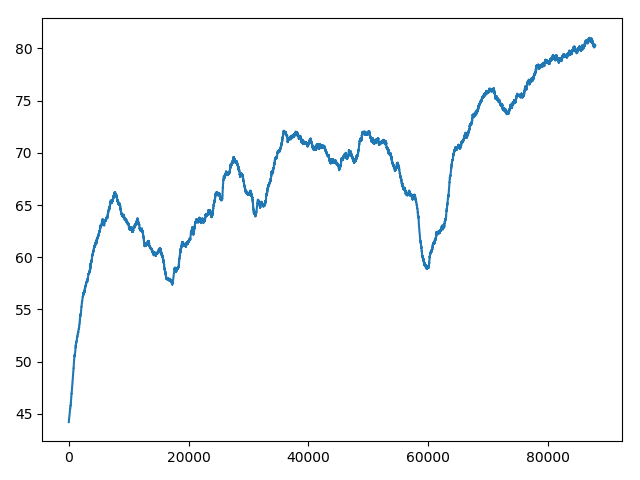
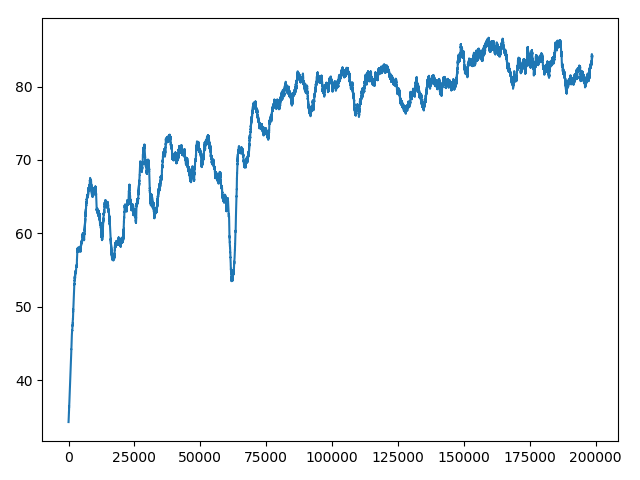
Stalkers and epsilon greedy

diff --git a/sc2ai/env_interface.py b/sc2ai/env_interface.py
@@ -42,14 +42,15 @@ class EnvironmentInterface(ABC):
 
 class RoachesEnvironmentInterface(EnvironmentInterface):
     state_shape = [3, 84, 84]
-    screen_dimensions = [84, 84, 84, 84]
-    num_actions = 3
+    screen_dimensions = [84, 84, 84, 84, 84, 84]
+    num_actions = 4
 
     @classmethod
     def _get_action_mask(cls, timestep):
         mask = np.ones([cls.num_actions])
         if pysc2_actions.FUNCTIONS.Attack_screen.id not in timestep.observation.available_actions:
             mask[0] = 0
+            mask[1] = 0
         return mask
 
     @classmethod
@@ -70,12 +71,6 @@ class RoachesEnvironmentInterface(EnvironmentInterface):
             return None
 
     @classmethod
-    def _save_timestep_image(cls, timestep, name='outimages/test'):
-        imsave(name + '1.png', cls.convert_state(timestep)[0][0])
-        imsave(name + '2.png', cls.convert_state(timestep)[0][1])
-        imsave(name + '3.png', cls.convert_state(timestep)[0][2])
-
-    @classmethod
     def _rotate_action(cls, x, y):
         yield
         timestep = yield pysc2_actions.FUNCTIONS.select_point('select', (x, y))
@@ -87,7 +82,11 @@ class RoachesEnvironmentInterface(EnvironmentInterface):
                     direction = center_allies - center_enemies
                     target = [x, y] + 10 * direction
                     target = np.clip(target, a_min=0, a_max=83)
-                    yield pysc2_actions.FUNCTIONS.Move_screen('now', target)
+                    if pysc2_actions.FUNCTIONS.Effect_Blink_screen.id in timestep.observation.available_actions:
+                        yield pysc2_actions.FUNCTIONS.Effect_Blink_screen('now', target)
+                    else:
+                        yield pysc2_actions.FUNCTIONS.Move_screen('now', target)
+        yield pysc2_actions.FUNCTIONS.select_army('select')
         yield
 
     @classmethod
@@ -95,7 +94,56 @@ class RoachesEnvironmentInterface(EnvironmentInterface):
         action_index, coords = action
         actions = [
             cls._make_generator([pysc2_actions.FUNCTIONS.Attack_screen('now', coords[0:2])]),
-            cls._rotate_action(coords[2], coords[3]),
+            cls._make_generator([pysc2_actions.FUNCTIONS.Move_screen('now', coords[2:4])]),
+            cls._rotate_action(coords[4], coords[5]),
+            cls._make_generator([pysc2_actions.FUNCTIONS.select_army('select')])
+        ]
+        return actions[action_index]
+
+    @classmethod
+    def convert_state(cls, timestep):
+        feature_screen = timestep.observation.feature_screen
+        beacon = (np.array(feature_screen.player_relative) == PlayerRelative.ENEMY).astype(np.float32)
+        player = (np.array(feature_screen.player_relative) == PlayerRelative.SELF).astype(np.float32)
+        health = np.array(feature_screen.unit_hit_points).astype(np.float32)
+        return np.stack([beacon, player, health], axis=0), cls._get_action_mask(timestep)
+
+
+class BanelingsEnvironmentInterface(RoachesEnvironmentInterface):
+    state_shape = [3, 84, 84]
+    screen_dimensions = [84, 84, 84, 84, 84, 84]
+    num_actions = 4
+
+    @classmethod
+    def _get_action_mask(cls, timestep):
+        mask = np.ones([cls.num_actions])
+        if pysc2_actions.FUNCTIONS.Attack_screen.id not in timestep.observation.available_actions:
+            mask[0] = 0
+            mask[1] = 0
+        return mask
+
+    @classmethod
+    def _sacrifice_action(cls, x, y):
+        yield
+        timestep = yield pysc2_actions.FUNCTIONS.select_point('select', (x, y))
+        if len(timestep.observation.multi_select) == 0:
+            if pysc2_actions.FUNCTIONS.Move_screen.id in timestep.observation.available_actions:
+                center_allies = cls._get_center_of_mass(timestep, PlayerRelative.SELF)
+                center_enemies = cls._get_center_of_mass(timestep, PlayerRelative.ENEMY)
+                if center_enemies is not None and center_allies is not None:
+                    direction = center_allies - center_enemies
+                    target = [x, y] - 10 * direction
+                    target = np.clip(target, a_min=0, a_max=83)
+                    yield pysc2_actions.FUNCTIONS.Move_screen('now', target)
+        yield
+
+    @classmethod
+    def convert_action(cls, action):
+        action_index, coords = action
+        actions = [
+            cls._make_generator([pysc2_actions.FUNCTIONS.Attack_screen('now', [coords[0], coords[1]])]),
+            cls._make_generator([pysc2_actions.FUNCTIONS.Move_screen('now', [coords[2], coords[3]])]),
+            cls._sacrifice_action(coords[4], coords[5]),
             cls._make_generator([pysc2_actions.FUNCTIONS.select_army('select')])
         ]
         return actions[action_index]

diff --git a/sc2ai/run_agent.py b/sc2ai/run_agent.py
@@ -3,8 +3,9 @@ from absl import flags
 
 from pysc2.env import sc2_env
 from pysc2.lib import point_flag
+from pysc2.maps import lib
 
-from sc2ai.env_interface import RoachesEnvironmentInterface, BeaconEnvironmentInterface
+from sc2ai.env_interface import RoachesEnvironmentInterface, BeaconEnvironmentInterface, BanelingsEnvironmentInterface
 from sc2ai.environment import MultipleEnvironment, SCEnvironmentWrapper
 from sc2ai.learner import Learner
 
@@ -30,7 +31,7 @@ flags.DEFINE_integer("step_mul", 8, "Game steps per agent step.")
 
 flags.DEFINE_enum("agent_race", "random", sc2_env.Race._member_names_,  # pylint: disable=protected-access
                   "Agent 1's race.")
-flags.DEFINE_bool("use_cuda", True, "Whether to train on gpu")
+flags.DEFINE_bool("cuda", True, "Whether to train on gpu")
 flags.DEFINE_integer("parallel", 1, "How many instances to run in parallel.")
 flags.DEFINE_string("map", None, "Name of a map to use.")
 
@@ -42,7 +43,19 @@ flags.DEFINE_float("td_lambda", 0.96, "Lambda value for generalized advantage es
 flags.mark_flag_as_required("map")
 
 
+class StalkersVsRoachesMap(lib.Map):
+    directory = "mini_games"
+    download = "https://github.com/deepmind/pysc2#get-the-maps"
+    players = 1
+    score_index = 0
+    game_steps_per_episode = 0
+    step_mul = 8
+
+
 def main(unused_argv):
+    name = 'StalkersVsRoaches'
+    globals()[name] = type(name, (StalkersVsRoachesMap,), dict(filename=name))
+
     env_kwargs = {
         'map_name': FLAGS.map,
         'players': [sc2_env.Agent(sc2_env.Race[FLAGS.agent_race])],
@@ -59,26 +72,36 @@ def main(unused_argv):
         'visualize': FLAGS.render
     }
 
-    if FLAGS.map == 'DefeatRoaches':
+    if FLAGS.map in {'DefeatRoaches', 'StalkersVsRoaches'}:
         interface = RoachesEnvironmentInterface()
     elif FLAGS.map == 'MoveToBeacon':
         interface = BeaconEnvironmentInterface()
+    elif FLAGS.map == 'DefeatZerglingsAndBanelings':
+        interface = BanelingsEnvironmentInterface()
     else:
         raise Exception('Unsupported Map')
 
-    num_instances = 1 if FLAGS.render else FLAGS.parallel
-    environment = MultipleEnvironment(lambda: SCEnvironmentWrapper(interface, env_kwargs),
-                                      num_instance=num_instances)
-    learner = Learner(environment, interface, use_cuda=FLAGS.use_cuda, load_model=FLAGS.load_model,
-                      gamma=FLAGS.gamma, td_lambda=FLAGS.td_lambda)
+    i = 0
+    # Refresh environment every once in a while to deal with memory leak
+    load_model = FLAGS.load_model
+    while True:
+        num_instances = 1 if FLAGS.render else FLAGS.parallel
+        environment = MultipleEnvironment(lambda: SCEnvironmentWrapper(interface, env_kwargs),
+                                          num_instance=num_instances)
+        learner = Learner(environment, interface, use_cuda=FLAGS.cuda, load_model=load_model,
+                          gamma=FLAGS.gamma, td_lambda=FLAGS.td_lambda)
+        try:
+            for i in range(1000):
+                if FLAGS.max_episodes and i >= FLAGS.max_episodes:
+                    break
+                learner.train_episode()
+                i += 1
+        finally:
+            environment.close()
 
-    try:
-        i = 0
-        while not FLAGS.max_episodes or i < FLAGS.max_episodes:
-            learner.train_episode()
-            i += 1
-    finally:
-        environment.close()
+        if FLAGS.max_episodes and i >= FLAGS.max_episodes:
+            break
+        load_model = True
 
 
 if __name__ == "__main__":

diff --git a/sc2ai/learner.py b/sc2ai/learner.py
@@ -14,12 +14,14 @@ class Learner:
 
         self.device = torch.device('cuda' if use_cuda else 'cpu')
         self.dtype = torch.cuda.FloatTensor if use_cuda else torch.FloatTensor
+        self.use_cuda = use_cuda
 
         self.agent_interface = agent_interface
         self.actor = ConvActorCritic(num_actions=self.agent_interface.num_actions,
                                      screen_dimensions=self.agent_interface.screen_dimensions,
                                      state_shape=self.agent_interface.state_shape,
                                      dtype=self.dtype, device=self.device).to(self.device)
+        self.episode_counter = 0
         if load_model:
             self.load()
         else:
@@ -27,7 +29,11 @@ class Learner:
 
         self.env = environment
         self.optimizer = torch.optim.Adam(self.actor.parameters(), lr=0.0003)
-        self.episode_counter = 0
+
+    def get_epsilon(self, start=0.99, x=100000, y=0.15):
+        # After x episodes, epsilon will decay from start to y
+        t = x / np.log(y / start)
+        return start * np.exp(self.episode_counter / t)
 
     def generate_trajectory(self):
         states, action_masks, rewards, next_dones = self.env.reset()
@@ -35,7 +41,8 @@ class Learner:
             # Choose action from state
             state = torch.as_tensor(np.stack(states), device=self.device).type(self.dtype)
             action_masks = torch.as_tensor(np.stack(action_masks), device=self.device).type(self.dtype)
-            action_indices, coords, entropys, log_action_probs, critic_values = self.actor(state, action_masks)
+            action_indices, coords, entropys, log_action_probs, critic_values = \
+                self.actor(state, action_masks, self.get_epsilon())
             dones = next_dones
 
             # Step to get reward and next state
@@ -61,6 +68,7 @@ class Learner:
 
         for reward in rewards:
             self.log_data(np.nansum(reward[:-1]))
+            self.episode_counter += 1
 
     def actor_critic_loss(self, rewards, values, log_action_probs, entropys, dones, infinite_horizon=False):
         seq_length = dones.shape[0] - np.sum(dones)
@@ -92,7 +100,13 @@ class Learner:
         torch.save(self.actor.state_dict(), './weights/actor')
 
     def load(self):
-        self.actor.load_state_dict(torch.load('./weights/actor'))
+        with open('rewards.txt', 'r') as f:
+            for _ in f:
+                self.episode_counter += 1
+        if self.use_cuda:
+            self.actor.load_state_dict(torch.load('./weights/actor'))
+        else:
+            self.actor.load_state_dict(torch.load('./weights/actor', map_location='cpu'))
 
     def log_data(self, reward):
         with open('rewards.txt', 'a+') as f:
@@ -100,4 +114,3 @@ class Learner:
 
         if self.episode_counter % 50 == 0:
             self.save()
-        self.episode_counter += 1

diff --git a/sc2ai/actor_critic.py b/sc2ai/actor_critic.py
@@ -29,7 +29,7 @@ class ConvActorCritic(torch.nn.Module):
         log_action_prob = categorical.log_prob(chosen_action_index)
         return chosen_action_index, log_action_prob, categorical.entropy()
 
-    def forward(self, state, action_mask):
+    def forward(self, state, action_mask, epsilon=0):
         num_steps = state.shape[0]
 
         logits = F.relu(self.conv1(state))
@@ -44,15 +44,20 @@ class ConvActorCritic(torch.nn.Module):
             spacial_probs.append(F.softmax(head_spacial(logits), dim=-1))
         critic_value = self.head_critic(logits)
 
-        masked_probs = (non_spacial_probs + 0.00001) * action_mask
+        # Calculate amount to add to each action such that there is epsilon probability of performing a random action
+        extra_prob = ((epsilon / (1 - epsilon)) * torch.sum(non_spacial_probs.data * action_mask, dim=-1, keepdim=True)).type(self.dtype)
+        extra_prob /= torch.sum(action_mask, dim=-1, keepdim=True)
+        masked_probs = (non_spacial_probs + extra_prob) * action_mask
+
+        # Normalize probability distribution
         masked_probs = masked_probs / torch.sum(masked_probs, dim=-1, keepdim=True)
 
         non_spacial_index, non_spacial_log_prob, non_spacial_entropy = self.sample(masked_probs)
-
         data = zip(*[self.sample(probs) for probs in spacial_probs])
         spacial_coords, spacial_log_probs, spacial_entropys = [torch.stack(tensors, dim=-1) for tensors in data]
-
         joint_entropy = non_spacial_entropy + spacial_entropys.sum(dim=-1)
+
+        # Calculate log probability for actions. Each pair of spacial actions corresponds to a non-spacial action.
         joint_log_prob = non_spacial_log_prob
         for i in range(int(len(self.screen_dimensions) / 2)):
             joint_log_prob += spacial_log_probs[:, i*2:i*2+2].sum(dim=-1) * (non_spacial_index == i).type(self.dtype)

diff --git a/graph_rewards.py b/graph_rewards.py
@@ -1,18 +1,20 @@
+#!/usr/bin/env python
+
 import numpy as np
 from matplotlib import pyplot as plt
 
 rewards = []
-with open('../rewards.txt', 'r') as f:
+with open('rewards.txt', 'r') as f:
     for line in f:
         rewards.append(int(line))
 
 rewards = np.array(rewards)
-smooth_n = 2500
+smooth_n = 1000
 
 smoothed_rewards = []
 for i in range(len(rewards) - smooth_n):
     smoothed_rewards.append(np.sum(rewards[i:i+smooth_n]) / smooth_n)
 
-print(np.max(smoothed_rewards))
+print(np.max(smoothed_rewards + [0]))
 plt.plot(smoothed_rewards)
 plt.show()

diff --git a/sc2ai/environment.py b/sc2ai/environment.py
@@ -26,7 +26,7 @@ class SCEnvironmentWrapper:
         while True:
             self.timestep = self.env.step([action])[0]
             if self.render:
-                time.sleep(0.3)
+                time.sleep(0.15)
 
             total_reward += self.timestep.reward
             self.done = int(self.timestep.step_type == StepType.LAST)
